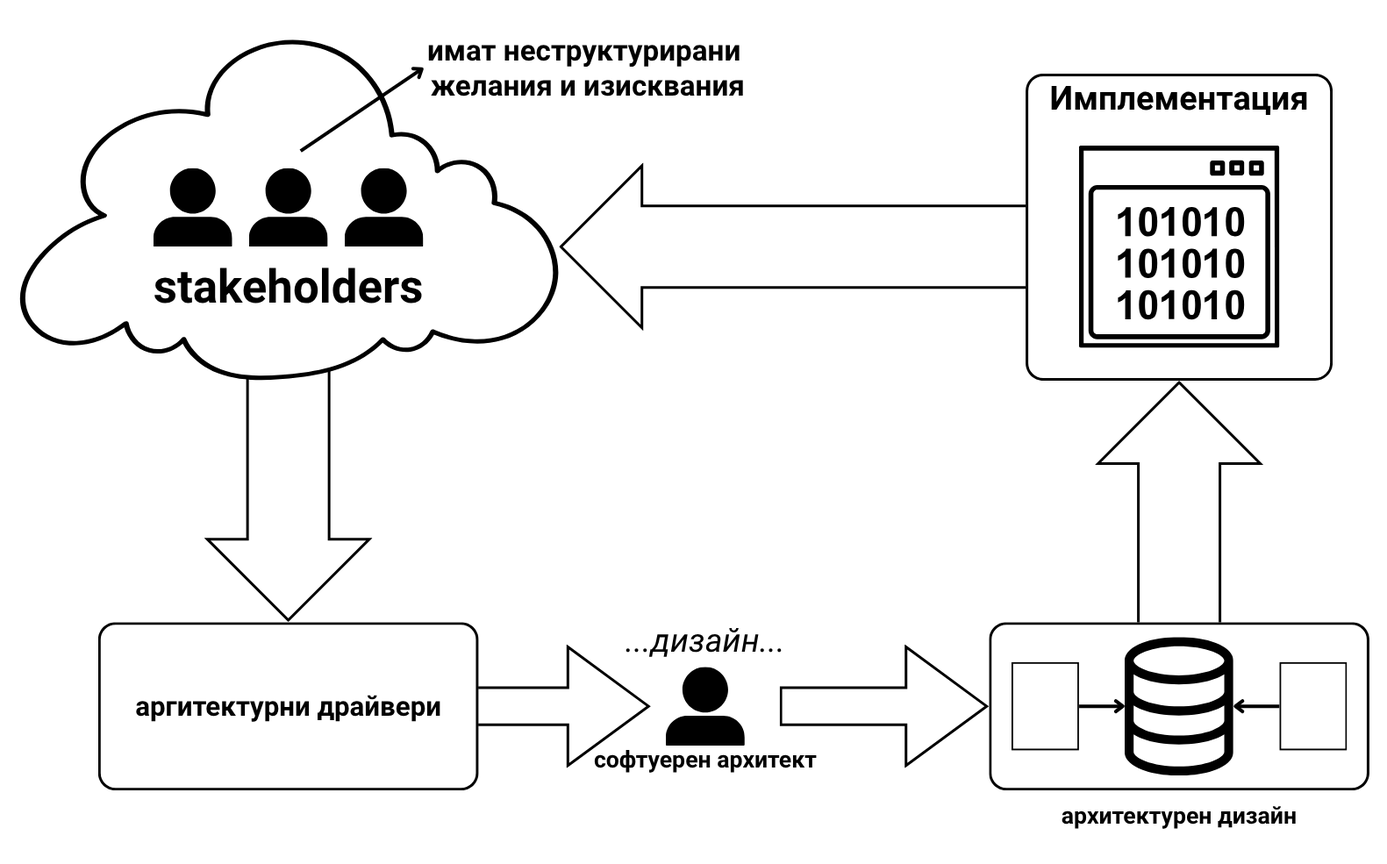
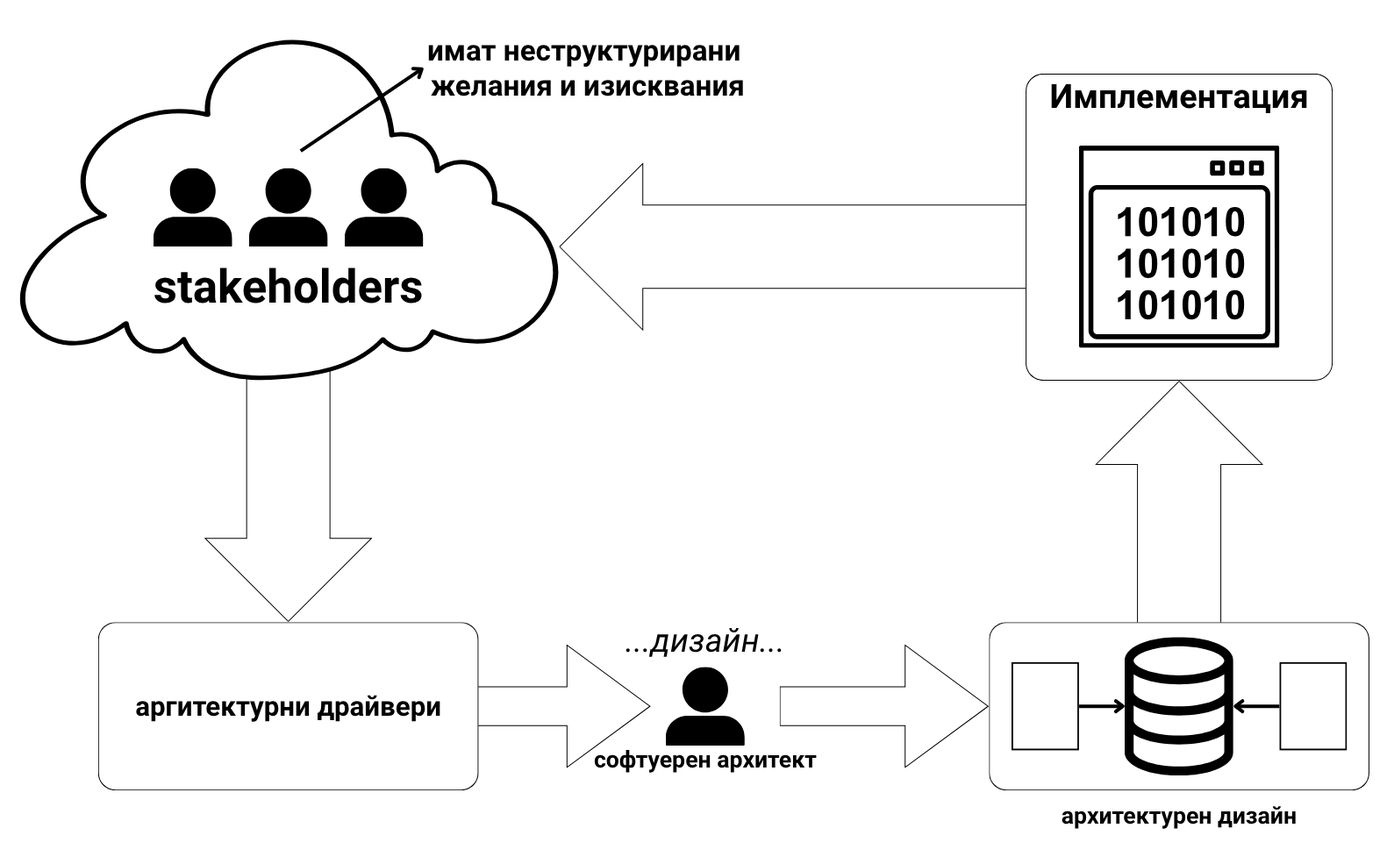
start tactics

diff --git a/week04/README.md b/week04/README.md
@@ -1,0 +1,252 @@
+#  Тактики
+
+## Дефиниция
+**Тактиката е архитектурно решение, чрез което се
+контролира резултата на даден сценарий за
+качество**
+
+
+Идва момент при проектирането на софтуерна архитектура, когато достигането на високи произотелност, надеждност, сигурност и т.н. не могат да се достигнат само с тестване - *трябва архитектурата да бъде предвидена така, че да предразполага към наличието на тези качествени характеристики*
+
+Именно тактиките са начина архитектурата да бъде проектирана така - в някакъв смисъл те са насоки/план за постигане на висока стойност на дадена качествена характериситка
+
+**Наборът от конкретни тактики се нарича архитектурна
+стратегия**
+
+## Тактики за изправност
+* откриване и предпазване от откази
+* отстраняване на откази
+* повторно въвеждане в употреба
+
+### Откриване и предпазване от откази
+* **ехо (ping/echo)** - най-общо казано се използва, за да се провери дали два компонента на системата, които имат връзка (комуникират помежду си), все още могат да изпълнят комуникацията, или е настъпил проблем
+    * `компонент А` изпраща тестово съобщение/заявка/сигнал на `компонент Б`
+    * ако се изпрати отговор в някакво зададено време, значи комуникацяита между `компонент А` и `компонент Б` може да продължи
+    * ако отговор не последва, значи има проблем в `компонент Б` или в комуникационния канал между двата компонента
+    ---
+    *като начин за оптимизация на мрежовия трафик*:
+
+    Вместо всички ping-ове да се управляват от един детектор, може да бъде въведена йерархия - на най-ниско ниво има детектори, които следят група процеси, работещи заедно; едно ниво нагоре са други детектори, които следят работата на първите и така нататък нагоре по йерархията
+
+* **heartbeat/keepalive**
+    * `компонент А` периодично изпраща сигнал на `компонент Б`, който го очаква. Ако сигнала се получи, то значи `компонент А` е жив. В противен случай се предполага, че е настъпил някакъв проблем
+    * не е задължително сигналът да има ролята само на *heartbeat* - може да бъде обвързан с някой background процес, например логване на данни. Ако този процес работи правилно през времето, то значи обекта е жив и в изправност
+
+### Отстраняване на откази
+* **изключения (exceptions)**
+    * при достигсне на състояние на отказ на системата се генерира *изключение*
+    * това изключение следва да бъде обработено, обикновено в процеса, генерирал грешката
+    * в някакъв смисъл изключението е управляемо/"желано" състояние на отказ, където се генерира нещо индикиращо грешка - съответно и отговор - вместо системата да бъде оставена да се оправя сама 
+
+* **активен излишък (active redundancy, hot restart)**
+    * важните компоненти биват копирани многократно
+    * всяко едно от копията поддържа едно и също състояние -> за това е нужна синхронизация и оптимизация от страна на системата
+    * *един от копираните компоненти е маркиран като **активен** и отговаря за комуникацията* 
+    * при срив, downtime-ът е много малък (няколко милисекунди), понеже:
+        * всеки компонент споделя едно и също състояние с главния (досегашния активен)
+        * оправянето на проблема се свежда до маркиране на друг компонент като *активен*
+
+* **пасивен излишък (passive redundancy, warm restart)**
+    * отново имаме няколко копия на важните компоненти
+    * тук имаме един *основен*, който отговаря за комуникацията и останалите (резервните), които биват информирани за промяна от главния (за разлика от активния излишък, където промените се отразяват еднакво при всички компоненти)
+    * при срив, downtime-ът е по-дълъг (от няколко секунди до няколко часа):
+        * преди смяната на *основния* компонент, системата трябва първо да се увери, че новия активен компонент е в най-актуалното състояние
+        * съотвено при нужда първо следва обновяване на новия активен компонент преди да бъде пуснат за употреба, което може да се окаже дълга операция
+    * именно за да се избегне проблема с необновена/прекалено стара версия на новия активен компонент, системата форсира периодична смяна между това кое копие е *основно* в момента
+        * така всяко копие в даден момент работи с най-актуалната версия на данните и не изостава прекалено много
+
+#### Проблеми при реализирането на активен/пасивен излишък
+* въпреки че отказите настъпват при външна намеса (действие към системата), причината за тях е грешка на ниво архитектура и проектиране на системата
+* така дори и да дупликираме даден компонент, в крайна сметка копираме причината за грешка, което е безсмислено
+* трябва да има **разнородност** при проектирането на копията
+    * *разнородност в проектирането (design diversity)*
+    * *разнородност по данни (data diversity)*
+    * *разнородност по време (temporal diversity)*
+
+#### Разнородност на проектирането
+Цели се да има няколко различни "версии" в реализацията (проектирането) на един и същи компонент, така че при активен/пасивен излишък да не се копират грешки. Тези разлики се реализират чрез:
+* различни програмни езици
+* различни компилатори
+* различни алгоритми
+* работа от различни, независими екипи
+* ***модул за избор на резултат от изпълнението на определено копие***
+
+Някои техники за постигане на разнородност при проектирането:
+
+* **recovery blocks**
+    * създават се няколко алтернативни копия на даден модул/компонент/процес на системата
+    * чрез тест за одобрение се избира резултата от кое копие да бъде избран
+        * теста за одобрение следи например дали резултатът е очаквания, дали се изпълняват системните изисквания и т.н.
+
+    Ако трябва да се опише стъпка по стъпка:
+    * реализирали сме няколко разнородни копия на даден модул, отговарящ за даден процес
+    * системата оформя *recovery block* за изпълнение на модула, като запазва началното положение като някакъв checkpoint/recovery point, към които да се върнем
+    * системата започва изпълнение на копията
+        * ако даденото копие мине теста за одобрение, то системата продължава работата си напред и излиза от *recovery block-а*
+        * ако не, то се връщаме към recovery point-а и се опитваме да изпълним следващото копие
+    * ако не са останали копия за изпълнение и сме още в *recovery block-а*, системата хвърля изключение
+
+* **N-version programming**
+    * на няколко различни версии (*напр. на различни процесори, компилатори, среди за обработка и т.н.*) на един и същи процес се даваш едни и същи входни данни
+    * **voter (output comparator)** сравнява изхода от различните версии; ако някой се разминава значително от останалите, voter-ът го изключва
+    * изборът кой процес "се разминава значително" зависи от какво се нуждае конкретната системата - може да е отхвърляне чрез мнозинство, сравняване с предпочитан резултат и др.
+
+    ![](/week04/resources/n-version.png)
+
+#### Разнородност по време
+Ключови за системата събития да възникват/стартират по различно време
+
+### Още техники за "Отстраняване на откази"
+* **извеждане от употреба (removal from service)** - *премахва се даден компонент от системата, за да се избегнат очаквани сривове*
+    * очевиден пример е, когато даден модул не работи правилно да бъде спрян да бъде премахнат временно
+    * не е непременно *извеждането от употреба* да става само за неработещи модули - с течение на времето предпоставката за грешки става все повече колкото повече процеси са се изпълнили в системата, затова е добре да има периодичен reboot; така в някакъв смисъл системата започва работа "отначало"
+        * например някоя банка пуска съобщение, че онлайн банкирането е спряно от полунощ до 6:00, именно с цел такава профилактика
+        * най-добре е такава профилактика да се извърши в такива мъртви часове, когато системата не се използва
+    * може извеждането от употреба да е ръчно или автоматично - и в двата случая трябва да бъде предвидено в архитектурата
+
+* **следене на процесите (process monitoring)**
+    * има един специален процес, които следи останалите
+    * ако някой от следените процеси откаже, следящият може да го *спре, преинициализира, да създаде нов екземпляр* - отново зависи каква точно архитектура имаме
+
+### Повторно въвеждане в употреба
+* **паралелна работа (shadow mode)**
+    * даден компонент е бил повреден и сме го поправили
+    * известно време бива пускан локално да работи паралелно със ситемата
+    * ако работи правилно, бива пускан официално обратно в системата
+
+* **контролни точки и rollback (checkpoint/rollback)**
+    * *контролната точка е запис на консистентно състояние, създаван периодично или в резултат на определени събития*
+    * ако настане някаква непредвидима грешка / неконсистентно състояние, системата се връща до последния checkpoint
+    * буквално **commit-и в git**: "консистентното състояние" е последното нещо, което сме решили, че е достатъчно добро да commit-нем; като оплескаме много нещата напред може да се върнем до последния commit 
+
+## Тактики за изменяемост
+* **локализиране на промените** – целта е да се намали броят на модулите, които са директно засегнати от дадена промяна
+* **предотвратяване на ефекта на вълната** – като правим промяна да е ограничена само до модулите, които зависят от промяната, а не да засяга и други
+* **отлагане на свързването** – целта е да се контролира времето за внедряване и себестойността на промяната
+
+### Локализиране на промените
+* **поддръжка на семантична свързаност**
+    * целим да проектираме системата така, че задачите, за които отговаря даден модул, да не зависят (твърде много) от други модули
+    * за целта обединяваме близки/"семантично свързани" задачи в един модул и подмодулите му
+    * *така връзките ни (семантичната свързаност/semantic coherence) се свеждат до рамките на един модул* (или поне малък на брой модули) 
+
+* **очакване на промените**
+    * прави се списък от най-вероятните промени, които биха настъпили
+    * на база на този списък се пита дали декомпозицията на модулите помага за лесното отстраняване на проблема
+        * ако знаем, че ще правим дадена промяна често и тя зависи от един единствен модул, но той има преки връзки с 10 други и 5 под-модула, всеки от които също има връзки с други компоненти, реализацията на промяната ще е доста трудна, въпреки че привидно зависи само от един модул
+    * затова *очакването на промените* и *поддръжката на семантичната свързаност* често са доста свързани
+
+* **ограничаване на възможните опции**
+
+### Предотвратяване на ефекта на вълната
+*Ефект на вълната* е когато при реализирането на дадена промяна се налага и модификация на модули, които не са директно засегнати от промяната
+* `модул А` има нужда от промяна - за да я реализираме обаче трябва да променим и `модул Б`, само защото е свързан с `модул А`
+---
+* **скриване на информация**
+    * даден модул не дава директрен достъп до вътрешната си информация
+    * предоставя *интерфейс* за употреба/комуникация от други модули
+    * **public и private в ООП** - правим публични само нещата, които искаме/трявба да бъдат достъпвани за даден модул - останалите са скрити
+
+* **ограничаване на комуникацията**
+    * органичаваме, доколкото е възможно, модулите, с които комуникира даден модул
+        * ограничаваме модулите, на които изпраща информация
+        * органичаваме модулите, от които получава информация
+
+* **поддръжка на съществуващите интерфейси**
+    * `модул А` има съществуващ интерфейс, от който зависи `модул Б`. Дори при промяна на `модул А`, трявба да поддържаме този интерфейс, някои примери са:
+        * ако се налага добавяме нов интерфейс, но стария продължава да съществува
+        * прилагаме *адаптер* - `модул A` е променен, съответно чрез адаптер пренасяме новия към стария интерфейс
+
+        Досега сме имали:
+
+        *модул А <-> стар интерфейс <-> модул Б*
+
+        С промените се е получило:
+
+        *модул А <-> нов интерфейс ---Б не може да взаимодейства с новия интерфейс---*
+
+        С адаптер:
+
+        *модул А <-> нов интерфейс <-> адаптер за стария интерфейс <-> модул Б*
+
+* **използване на посредник** - ако `модул Б` зависи по някакъв несемантичен начин от `модул А` (не зависи от начина на работа на А), може да се направи "подредник" между `модул А` и `модул Б`, така че тази зависимост да бъде ограничена
+    * буквално примера с *адаптер* по-горе
+    * `модул А` връща данни в тип JSON, а `модул Б` очаква данни в тип XML - посредника се грижи за смяната на данни
+    * `модул А` има IP, URL, порт и т.н. които не е добре да се достъпват от `модул Б`, но той все пак се нуждае от endpoint-а на А - посредника се грижи за тази част от комуникацията
+    * *wrapper, адаптер, proxy* и т.н. 
+
+* **отлагане на свързването**
+
+## Тактики за производителност
+*Целта на тактиките за производителност е да се
+постигне реакция от страна на системата на зададено
+събитие в рамките на определени времеви
+изисквания*
+
+Разделят се на три групи:
+* намаляване на изискванията
+* управление на ресурсите
+* арбитраж на ресурсите
+
+### Намаляване на изискванията
+Има се предвид изискванията (request-и) за употреба на даден ресурс, а не самите функционални изисквания към софтуерната система
+* **увеличаване на производителността на изчисленията**, напр. подобряване на алгоритмите
+
+* **премахване на overhead** - да се извършват само изчиследния, пряко свързани с изпълнението на конкретна задача/събитие
+    * това предполага, че не трябва да се използват *посредници* - пример как някои качестветни изисквания и тактиките им си противоречат
+* **промяна на периода и тактовата честота** - ако имаме някакво периодично събитие можем да увеличим времето между различните изпълнения или да изпълняваме само част от тях
+
+* **ограничаване на времето за изпълнение**
+
+* **опашка с краен размер**
+    * обработваме всички идващи заявки, докато имаме свободни ресурси
+    * когато нямаме свободни ресурси, слагаме идващите заявки в *опашка* (с краен размер)
+    * при освобождаване на ресурс pop-ваме първата заявка в опашката
+    * когато опашката се напълни, спираме да приемаме заявки
+
+### Управление на ресурсите
+* **паралелна обработка** - няколко процеса да се изпълняват паралелно ще намали времето, но за целта е нужна синхронизация и ресурси, да може да се поддържа
+
+* **излишък на данни/процеси** - запазване на някакви често използвани данни в *кеш*, *load-balancing* и др.
+
+* **включване на допълнителни ресурси** – повече (и по-бързи) процесори, памет, диск, мрежа (*буквално brute force-ване на повече производителност*)
+
+### Арбитраж на ресурсите
+**Scheduling** - при недостиг на ресурсите трябва да се вземе решение (да се направи *арбитраж* 🤓) кое събитие работи с предимство. Включва както избора на приоритетно събитие, така и предаването на този приоритет на изпълнение
+
+Някои алгоритми за *scheduling*:
+* **FIFO** - first in, first out
+    * всички заявки имат еднакъв приоритет
+
+    * обработват се в реда на пристигане
+
+    * буквално е *опашка*
+
+* **фиксиран приоритет**
+    * на различните заявки предварително се задава приоритет, спрямо например важността им или времето за изпълнение
+
+    * обработват се на база този предварително известен приоритет
+* **динамичен приоритет**
+    * алгоритъма взима решение на момента коя заявка е по-приоритетна на база вида и броя на всички заявки
+
+## Тактики за сигурност
+* тактики за устояване на атаките (ключалка на вратата)
+* тактики за откриване на атаките (аларма)
+* тактики за възстановяване след атака (застраховка)
+
+### Устояване на атаките
+Целим да проектираме системата така, че да предразполага към спряване със злонамерени действия/да сведем действията, който биха довели до проблем, до минимум
+
+* **автентикация на потребителите** - проверяваме данните на този, който прави заявката - дали е този, за който се представя; дали е някой потребител или някой, който би целял атака на системата
+* **оторизация на потребителите** - проверка дали потребителя има достъп до даден ресурс
+* **конфиденциалност (криптиране) на данните**
+
+* **ограничаване на експозицията и достъпа** - свеждаме местата, откъдето могат да ни атакуват, до минимум, включително физическия достъп до дадени компоненти (напр. firewall)
+    * донякъде като *скриването на информация* от **Тактиките за изменяемост** - публичния интерфейс представя само нещата, важни за комуникацяита с външния свят, останалото е скрито
+    * така и критичните точки на системата, които не са нужни на външния свят, следва да бъдат предпазени (private)
+
+### Възстановяване след атака
+* в голяма степен се препокрива с **Тактиките за изправност**, понеже атаката може да се гледа като срив на системата
+
+* представлява възстановяване на последното работещо състояние на системата и намиране на извършителя
+    * **поддръжката на audit trail** е тактиката за намиране на извършителя. Той включва информация за всяка заявка и кой я е направил. Така след атака може да се проследи кой и как я е извършил
